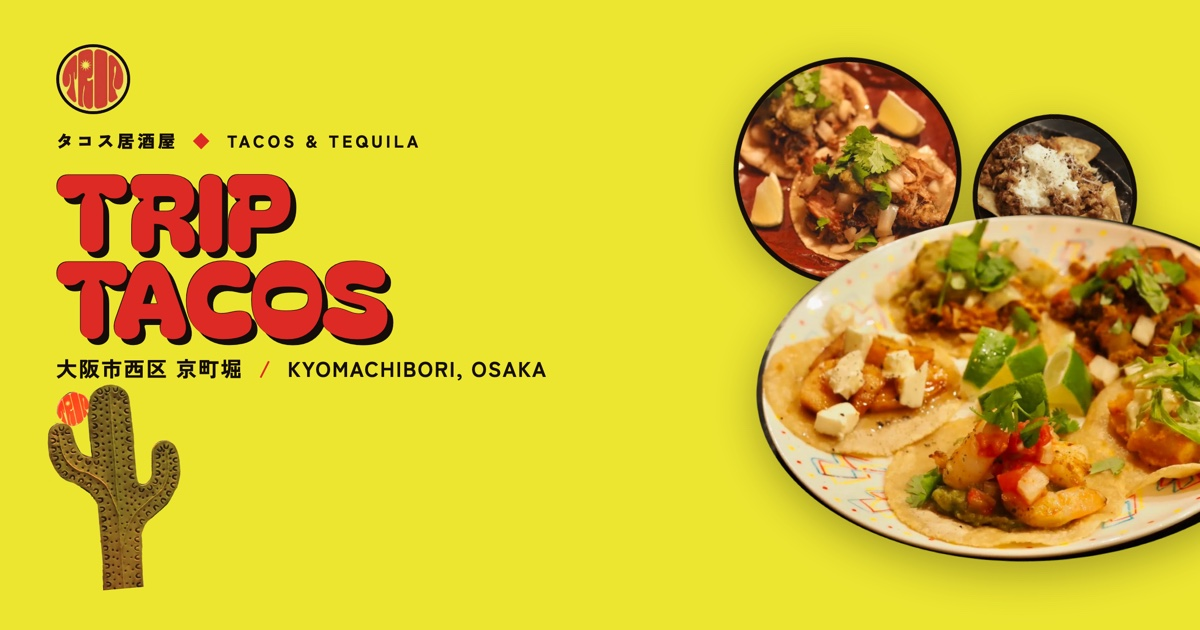
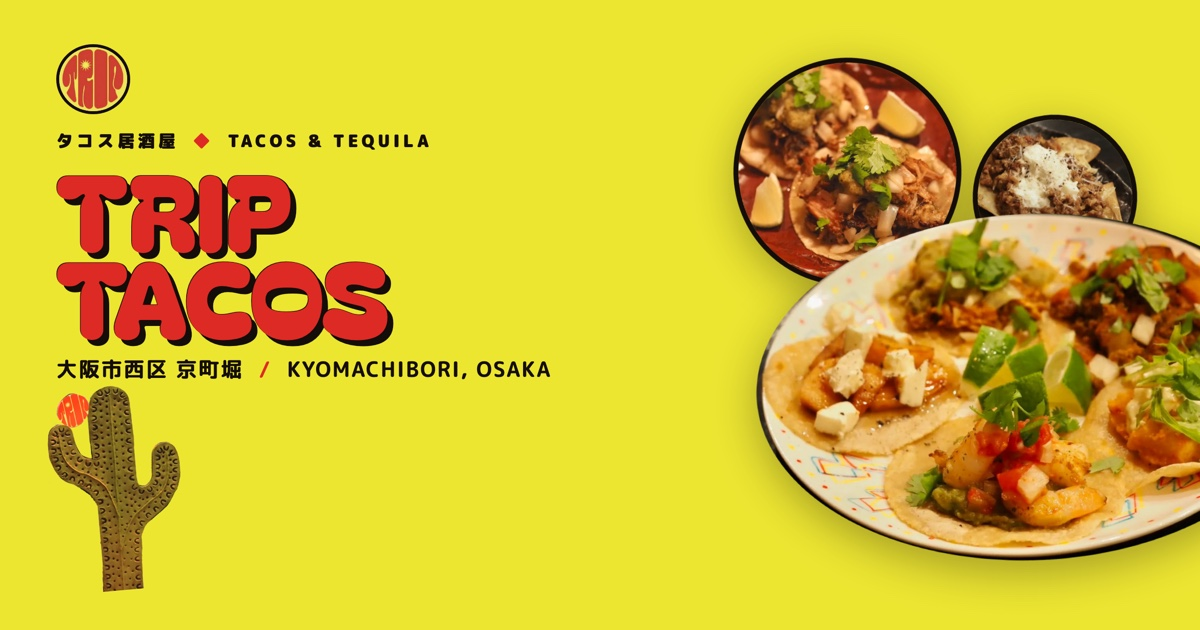
本文フォントを丸ゴシック(M PLUS Rounded 1c)に変更
見出しの Bagel Fat One が丸い書体なのに対し、本文が角ゴシック
(Zen Kaku Gothic New)で、質感が揃っていなかった。

- --font-body を M PLUS Rounded 1c に変更
- 端末側のフォールバックに Hiragino Maru Gothic ProN を指定。
  Mac / iPhone ではWebフォントが届く前もほぼ同じ形で出る
- OGP画像の版面も同じ書体に揃えて再出力

Zen Maru Gothic とも並べて比較したが、丸みが控えめで細く見えたため
M PLUS Rounded 1c を採用。

diff --git a/style.css b/style.css
@@ -15,8 +15,11 @@
   --ink:        #140D0A;
   --cream:      #F7F1E3;
 
-  --font-display: "Bagel Fat One", "Zen Kaku Gothic New", system-ui, sans-serif;
-  --font-body: "Zen Kaku Gothic New", "Hiragino Sans", "Noto Sans JP", system-ui, sans-serif;
+  /* 見出しの Bagel Fat One に合わせ、本文も丸ゴシックで揃える。
+     Hiragino Maru Gothic ProN は Mac / iPhone に入っている丸ゴシックなので、
+     Webフォントが届く前もほぼ同じ形で表示される */
+  --font-display: "Bagel Fat One", "M PLUS Rounded 1c", "Hiragino Maru Gothic ProN", system-ui, sans-serif;
+  --font-body: "M PLUS Rounded 1c", "Hiragino Maru Gothic ProN", "Zen Maru Gothic", system-ui, sans-serif;
 
   --pad: clamp(1.25rem, 5vw, 4rem);
   --sweep-unit: 1vw;   /* 料理写真が捌ける距離の単位。モバイルで拡大する */

diff --git a/tools/og-image.html b/tools/og-image.html
@@ -10,7 +10,7 @@
 -->
 <link rel="preconnect" href="https://fonts.googleapis.com">
 <link rel="preconnect" href="https://fonts.gstatic.com" crossorigin>
-<link rel="stylesheet" href="https://fonts.googleapis.com/css2?family=Bagel+Fat+One&family=Zen+Kaku+Gothic+New:wght@700;900&display=swap">
+<link rel="stylesheet" href="https://fonts.googleapis.com/css2?family=Bagel+Fat+One&family=M+PLUS+Rounded+1c:wght@700;900&display=swap">
 <style>
   :root {
     --red:    #DE2A24;
@@ -22,7 +22,7 @@
 
   body {
     background: var(--yellow);
-    font-family: "Zen Kaku Gothic New", sans-serif;
+    font-family: "M PLUS Rounded 1c", "Hiragino Maru Gothic ProN", sans-serif;
     display: grid;
     grid-template-columns: 1fr 1fr;
     align-items: center;

diff --git a/index.html b/index.html
@@ -25,7 +25,7 @@
 
 <link rel="preconnect" href="https://fonts.googleapis.com">
 <link rel="preconnect" href="https://fonts.gstatic.com" crossorigin>
-<link rel="stylesheet" href="https://fonts.googleapis.com/css2?family=Bagel+Fat+One&family=Caveat:wght@500;600&family=Zen+Kaku+Gothic+New:wght@400;500;700;900&display=swap">
+<link rel="stylesheet" href="https://fonts.googleapis.com/css2?family=Bagel+Fat+One&family=Caveat:wght@500;600&family=M+PLUS+Rounded+1c:wght@400;500;700;900&display=swap">
 <link rel="preload" as="image" href="assets/web/hero-tacos.webp">
 <link rel="preload" as="image" href="assets/web/tacos-red.webp">
 <link rel="preload" as="image" href="assets/web/nachos.webp">
